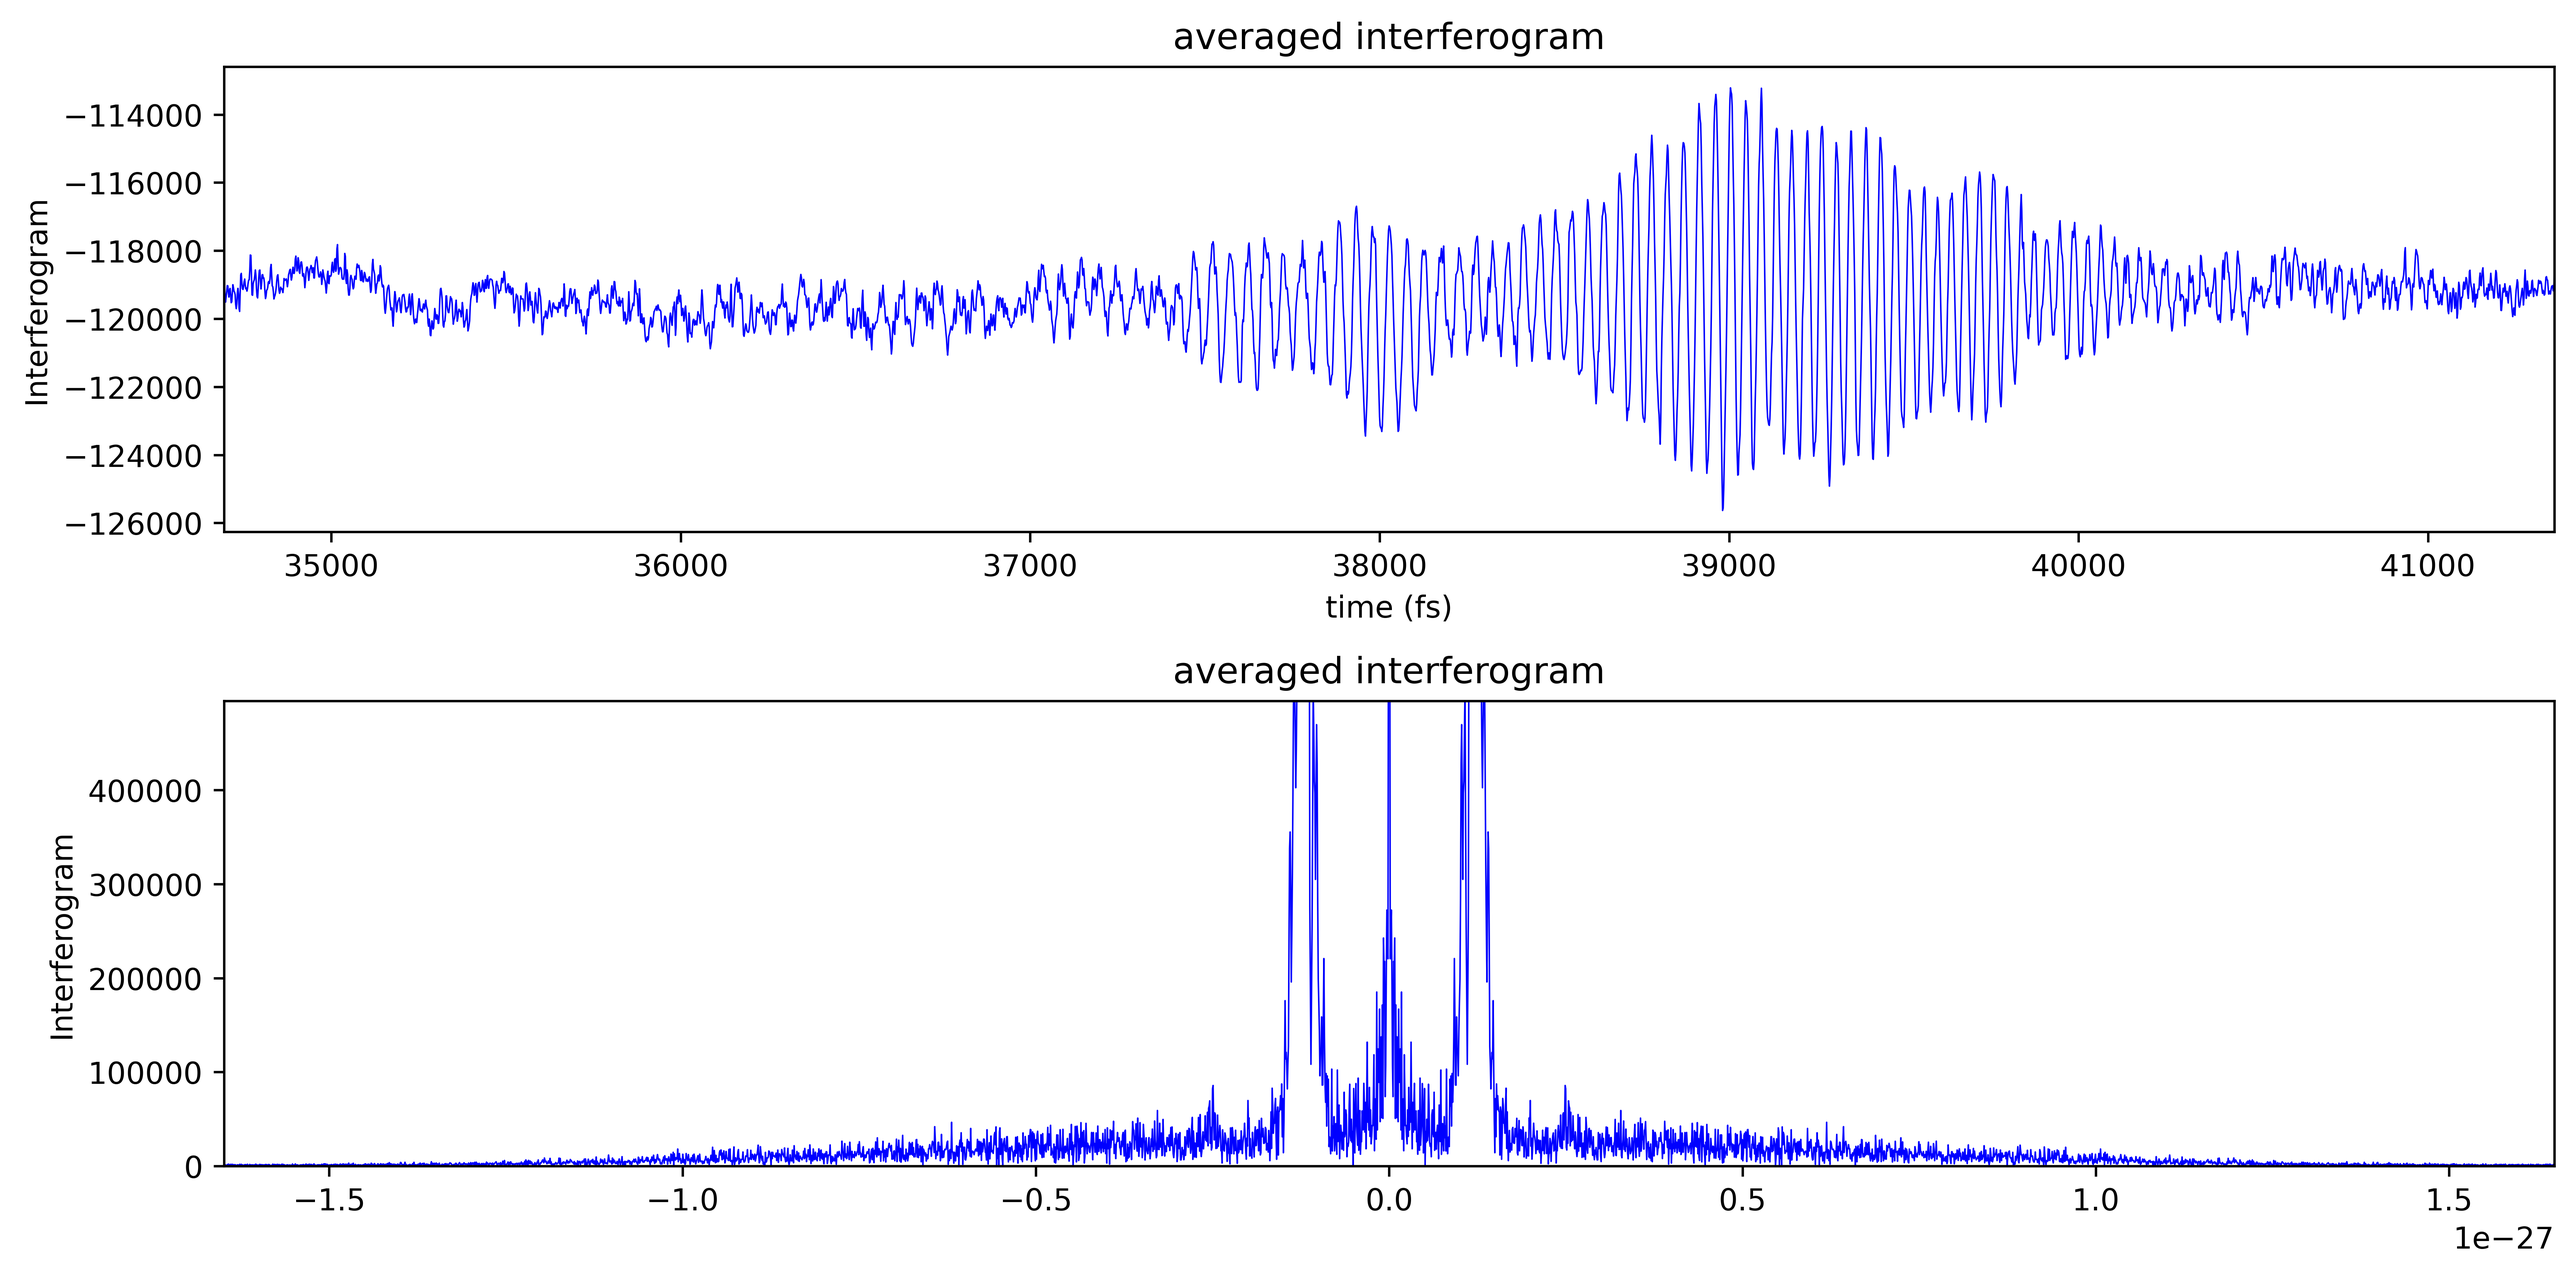
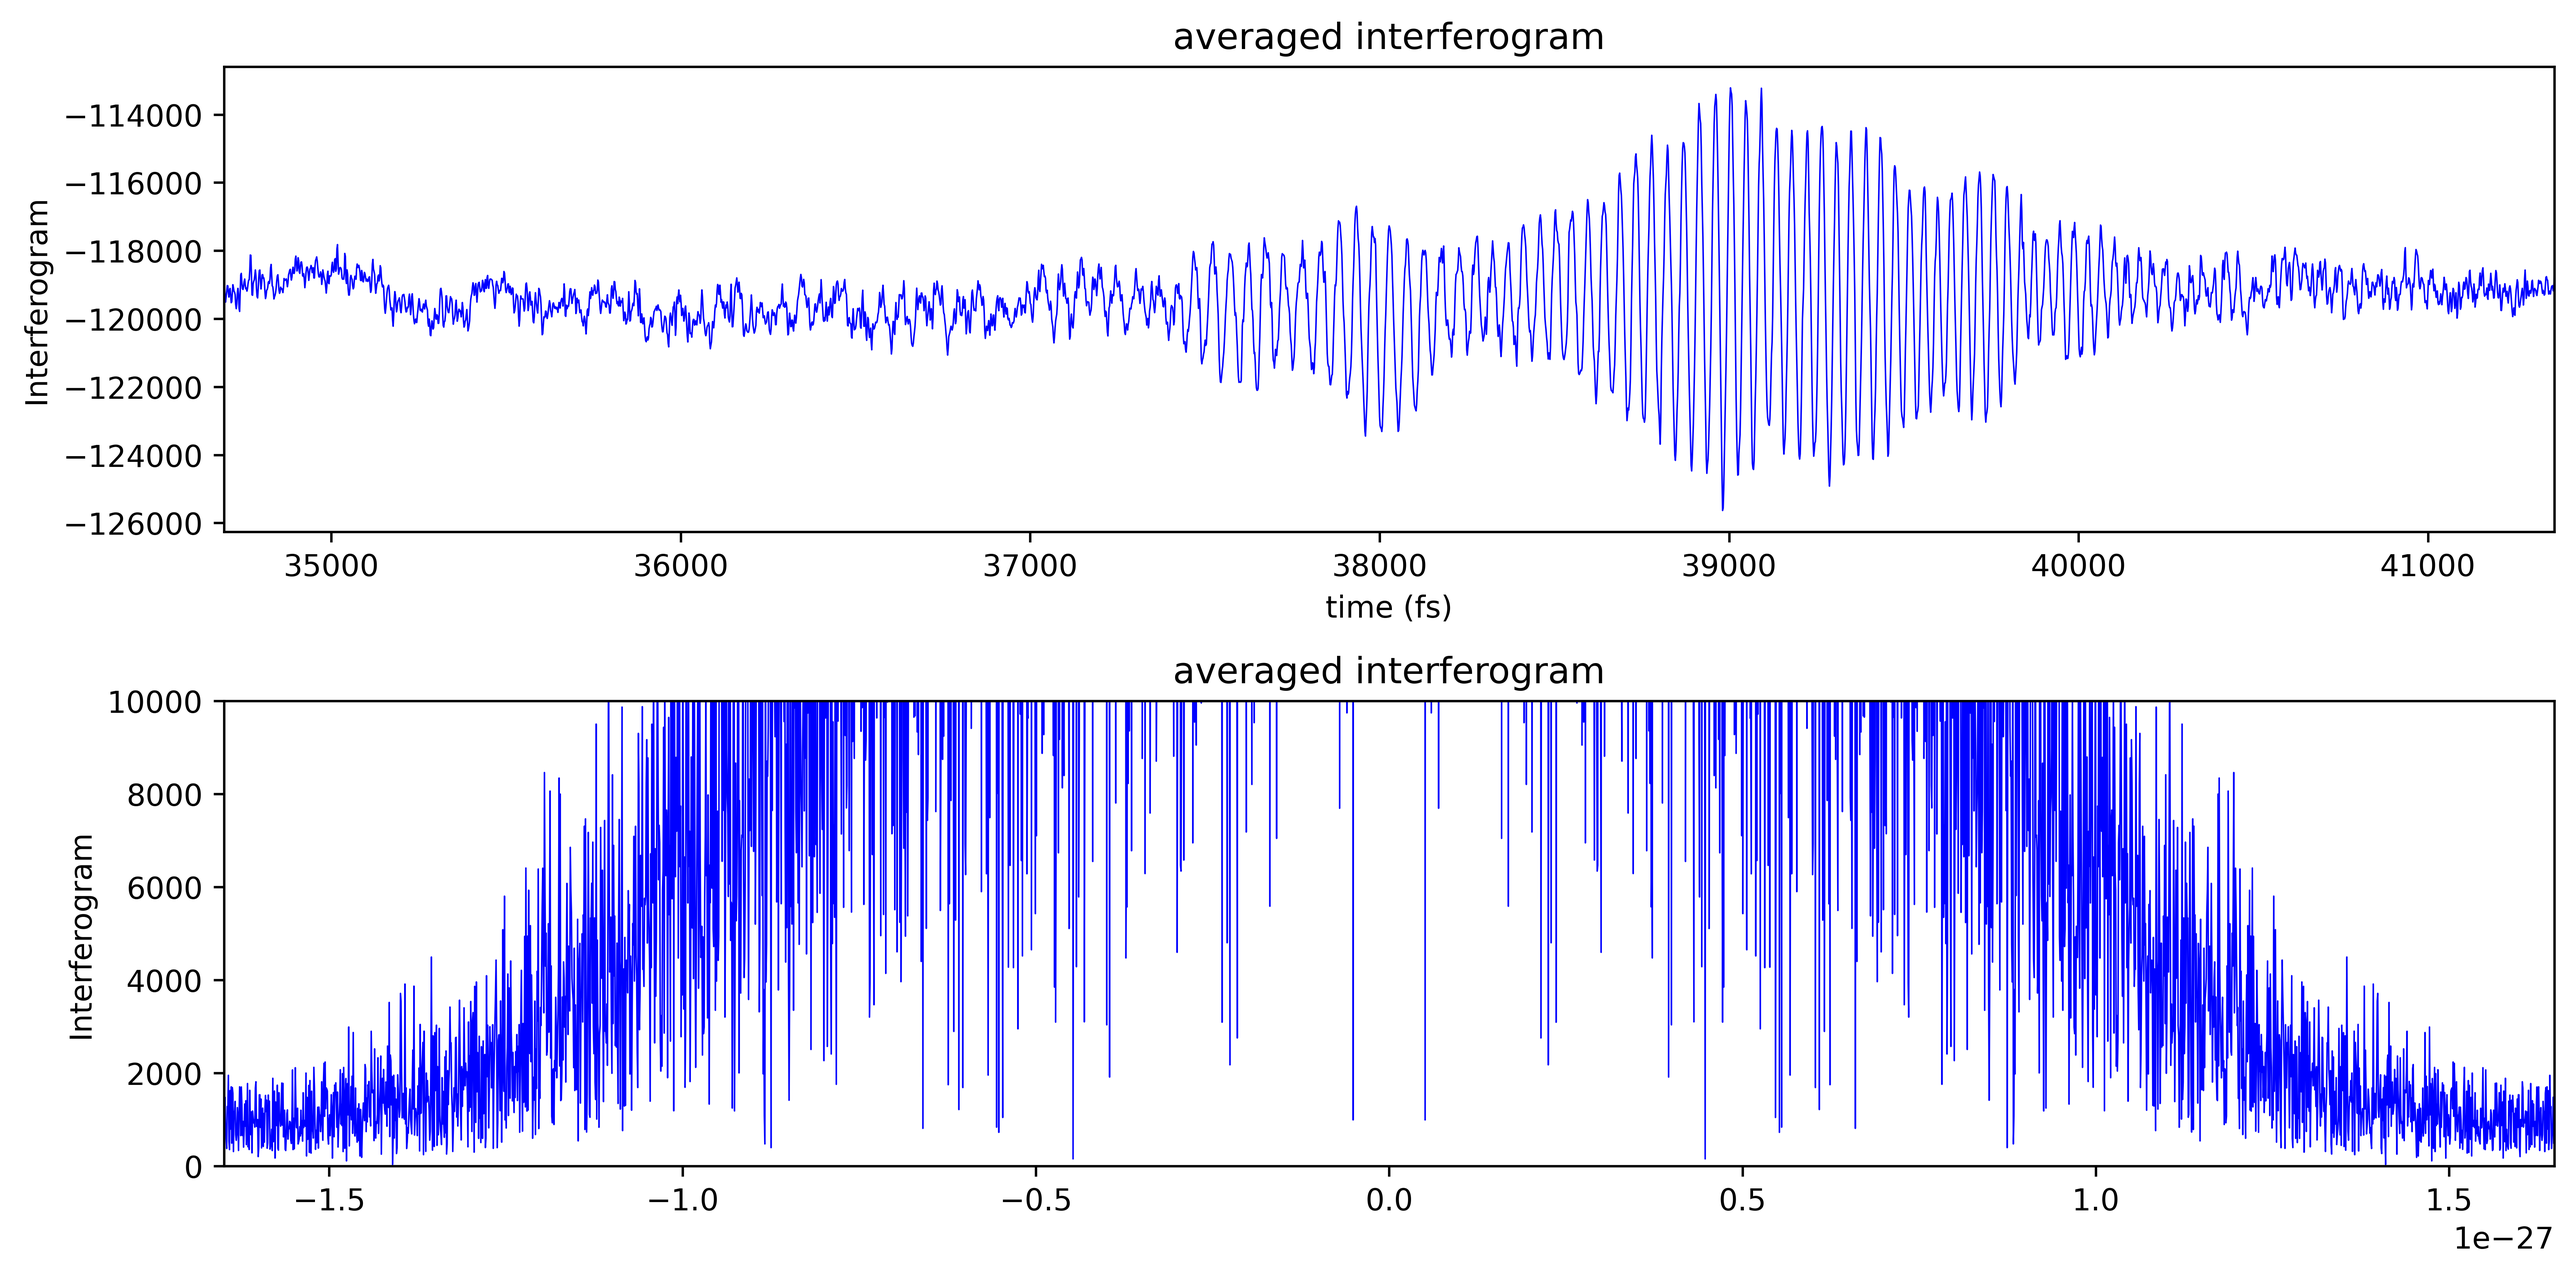
increased resolution

diff --git a/interf_plot.py b/interf_plot.py
@@ -90,7 +90,7 @@ def main(args):
     ax.set(xlabel='')
     ax.set(ylabel='Interferogram')
     ax.autoscale(enable=True, axis='x', tight=True)
-    plt.ylim(bottom=0, top=0.001*np.amax(mct_fft))
+    plt.ylim(bottom=0, top=1e4)
     ax.set_axisbelow(True)
     plt.tight_layout()
 
